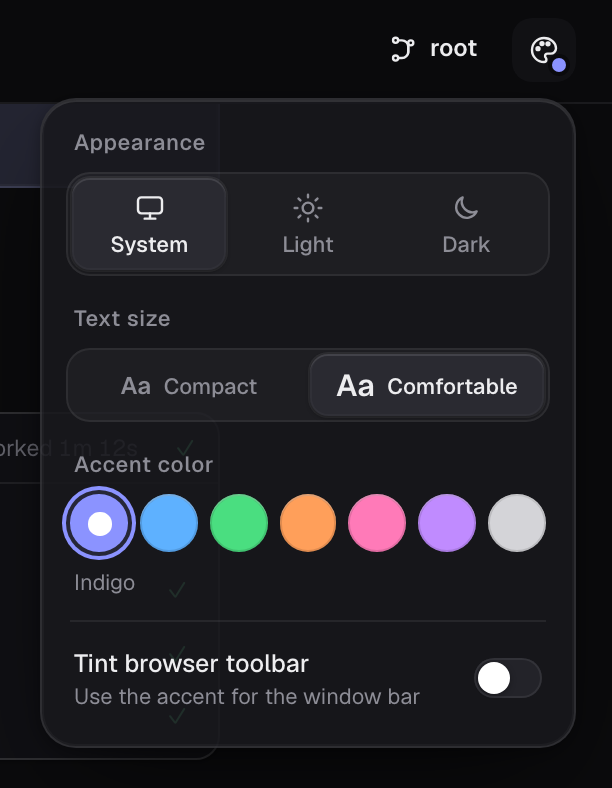
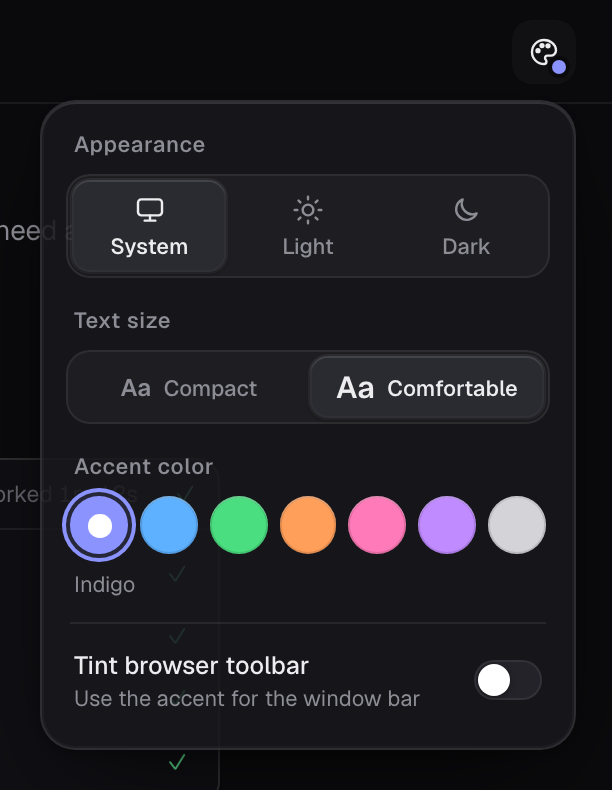
docs: refresh screenshots and README for the new header and thoughts
The demo thread gains a fictional thought row and project pill. The
screenshot tool now loads only Varnish (other extensions get empty
files) and hides the draft's own breadcrumbs, so no host data can
appear in the images.

diff --git a/README.md b/README.md
@@ -14,13 +14,14 @@ Varnish combines frosted surfaces, soft accent lighting, Geist typography, and a
 - **Geist and Geist Mono**, bundled locally. No external font service.
 - **Compact or Comfortable** text sizing.
 - Frosted panels, rounded controls, subtle highlights, and a restrained ambient glow.
+- Accent hairlines on the sidebar and diff-panel resize edges, and accent-aware versions of term-llm's theme tokens (send-button states, inline code, content width, message size).
 - A responsive layout and reduced-motion support.
 - Optional neutral or accent-colored browser chrome through the page's theme-color metadata. Browser support varies.
 
 ### A quieter composer
 
 - A rounded, chat-first composer whose controls share one height, with a compact model/effort chip (showing the model maker's mark in the accent colour, also beside the provider and model in its popover) that opens term-llm's own runtime controls.
-- A context-usage ring when the server exposes context data, with token details on hover. Near the limit, a **Compact** button runs `/compact` in one click and keeps your draft.
+- A context-usage ring when the server exposes context data, with token details on hover. Clicking it opens term-llm's context card (window, auto-compaction point, **Compact now**, session stats) above the composer, so the header meter is folded into the ring. Near the limit, a **Compact** button runs `/compact` in one click and keeps your draft.
 - Toolbar labels give way in a fixed order as the composer narrows (effort text, then context, then model name), so icons and meters never get squeezed.
 - A rainbow highlight for `ultrathink` when the selected provider is `claude-bin`. This is a visual cue, not a new model capability or an effort override.
 - A glass live-voice card above the composer: an accent orb that breathes while listening, ripples while speaking, and spins a halo while connecting or working, with the live transcript in a quiet inset and a red Stop pill. The dictation strip gets the same finish. Styling only; live voice itself is term-llm's.
@@ -41,7 +42,9 @@ Varnish combines frosted surfaces, soft accent lighting, Geist typography, and a
 ### A more readable conversation
 
 - Tool-type icons and a quieter tool-call timeline.
+- Reasoning rows styled like tool headers, with an accent rule down expanded thoughts and a soft sheen on the label while the model is thinking.
 - An estimated “Worked” duration derived from surrounding message timestamps, not authoritative tool execution timing.
+- Header breadcrumbs as quiet pills: the project (with a folder mark) and worktree sit before the title, and fold to a small label line when the header narrows.
 - Code-block language headers and a persistent long-line wrap toggle.
 - User-message copy/edit controls that use the app's existing composer and command behavior.
 - A jump-to-latest button when you scroll away from the bottom.
@@ -53,7 +56,7 @@ Varnish combines frosted surfaces, soft accent lighting, Geist typography, and a
 
 ## Install
 
-Requires a running term-llm web UI with extension support. Tested with **term-llm 0.9.82** in Chromium. Other versions and browsers may work, but are not guaranteed.
+Requires a running term-llm web UI with extension support. Tested with **term-llm 0.9.93** in Chromium. Other versions and browsers may work, but are not guaranteed.
 
 ```bash
 git clone https://github.com/keegangeorge/term-llm-varnish.git
@@ -197,7 +200,7 @@ The live preview injects the live-voice panel markup in every phase (connecting,
 | `main.js` | Appearance, sidebar, composer controls, lifecycle |
 | `util.js` | Preferences, node accents, same-origin API helpers |
 | `thread.js` | Conversation, code, timeline, new-chat additions |
-| `composer.js` | Context usage, Compact button and ultrathink highlighting |
+| `composer.js` | Context ring (opens term-llm's context card), Compact button and ultrathink highlighting |
 | `logos.js` | Provider marks for the model chip (Simple Icons, CC0) |
 | `palette.js` | Keyboard command palette |
 | `notify.js` | Background-tab title/favicon signals |
